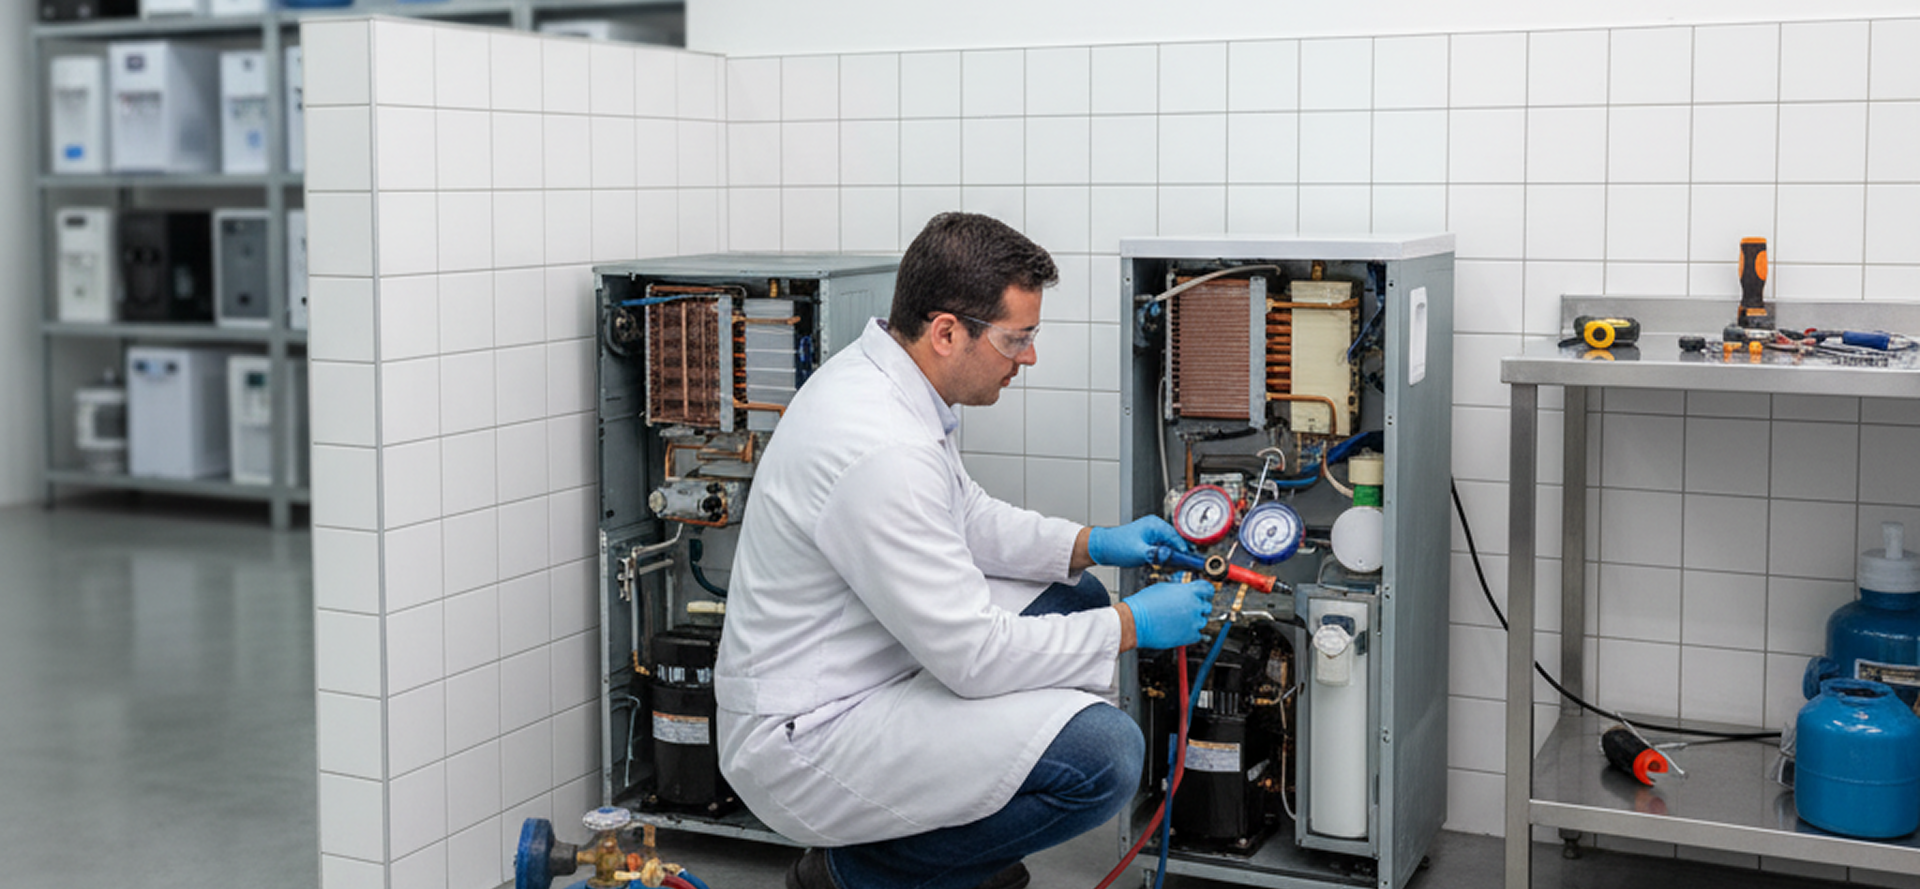
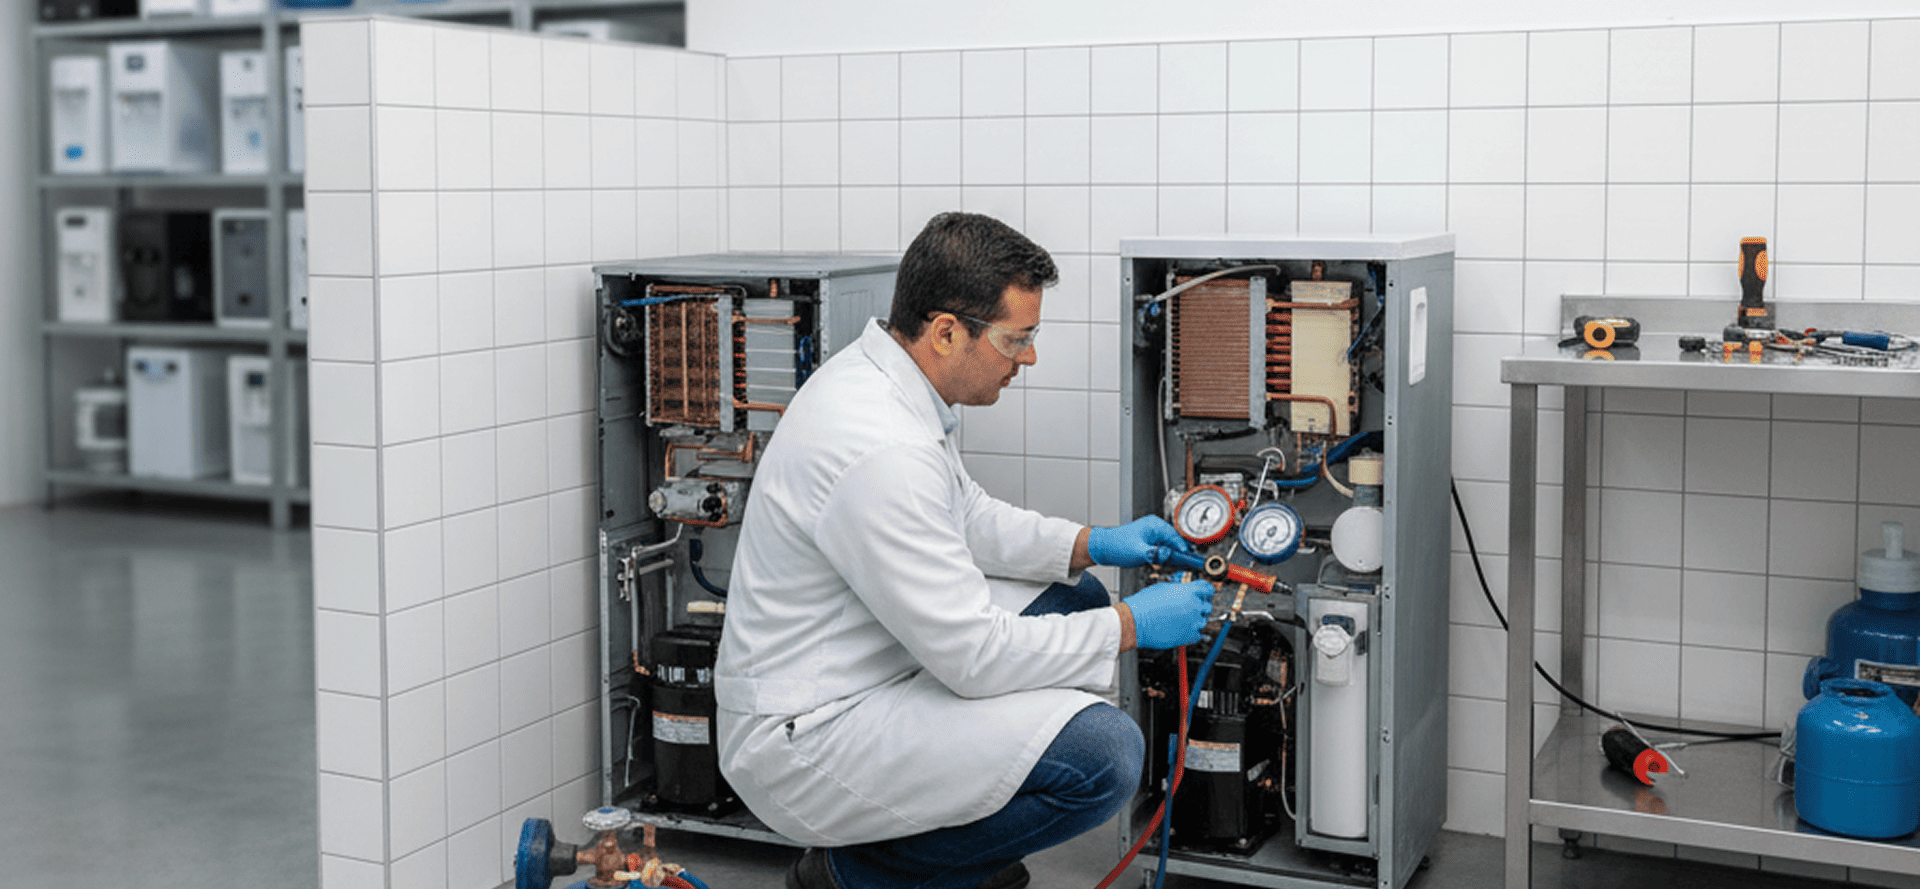
redimencionamento de imagens

diff --git a/index.html b/index.html
@@ -642,10 +642,10 @@
                             <div class="hover rounded-1 overflow-hidden relative text-light text-center wow fadeInRight" data-wow-delay=".4s">
                                 <img src="images/services/3.png" class="hover-scale-1-1 w-100" alt="">
                                 <div class="abs w-100 px-4 hover-op-1 z-4 hover-mt-40 abs-centered">
-                                    <a class="btn-main fx-slide" href="#!"><span>Consultar</span></a>
+                                    <!-- <a class="btn-main fx-slide" href="#!"><span>Consultar</span></a> -->
                                 </div>
                                 <h3 class="abs fs-32 lh-1 p-4 top-0 start-0">03</h3>
-                                <div class="abs bg-blur z-2 top-0 w-100 h-100 hover-op-1"></div>
+                                <div class="abs z-2 top-0 w-100 h-100 hover-op-1"></div>
                                 <div class="abs z-2 bottom-0 mb-3 w-100 text-center hover-op-0">
                                     <h4 class="mb-3">Anos de teste e aprovação</h4>
                                 </div>
@@ -676,10 +676,10 @@
                             <div class="hover rounded-1 overflow-hidden relative text-light text-center wow fadeInRight" data-wow-delay=".8s">
                                 <img src="images/services/5.png" class="hover-scale-1-1 w-100" alt="">
                                 <div class="abs w-100 px-4 hover-op-1 z-4 hover-mt-40 abs-centered">
-                                    <a class="btn-main fx-slide" href="#!"><span>Consultar</span></a>
+                                    <!-- <a class="btn-main fx-slide" href="#!"><span>Consultar</span></a> -->
                                 </div>
                                 <h3 class="abs fs-32 lh-1 p-4 top-0 start-0">05</h3>
-                                <div class="abs bg-blur z-2 top-0 w-100 h-100 hover-op-1"></div>
+                                <div class="abs z-2 top-0 w-100 h-100 hover-op-1"></div>
                                 <div class="abs z-2 bottom-0 mb-3 w-100 text-center hover-op-0">
                                     <h4 class="mb-3">Produto Certificado</h4>
                                 </div>
